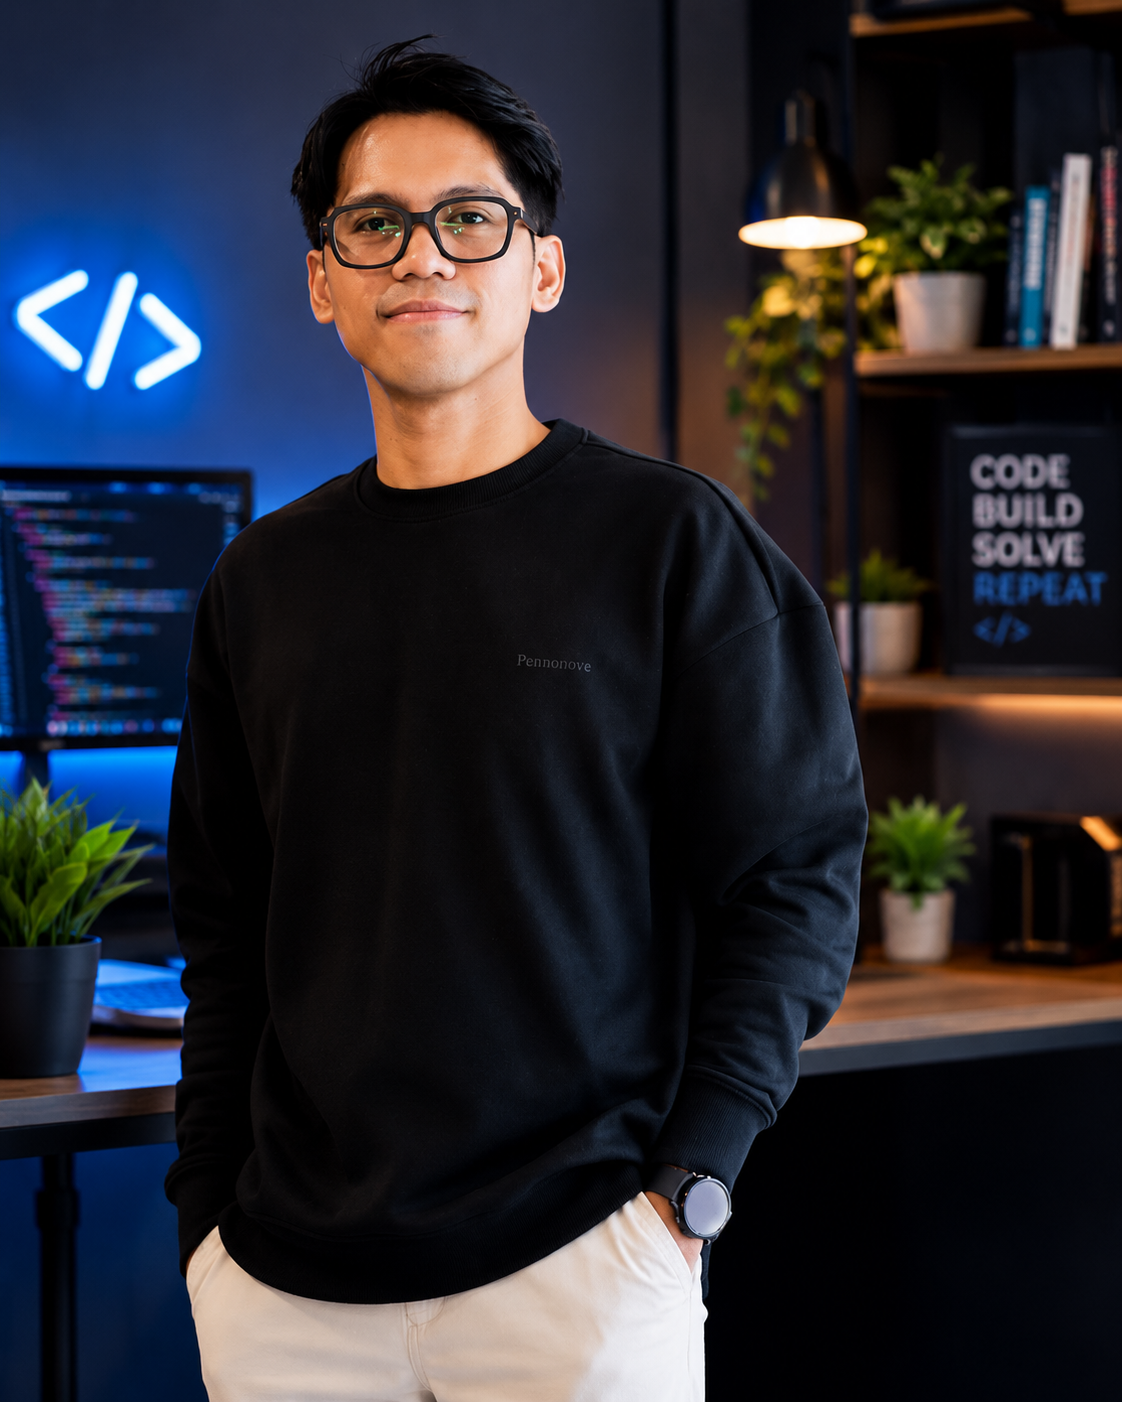
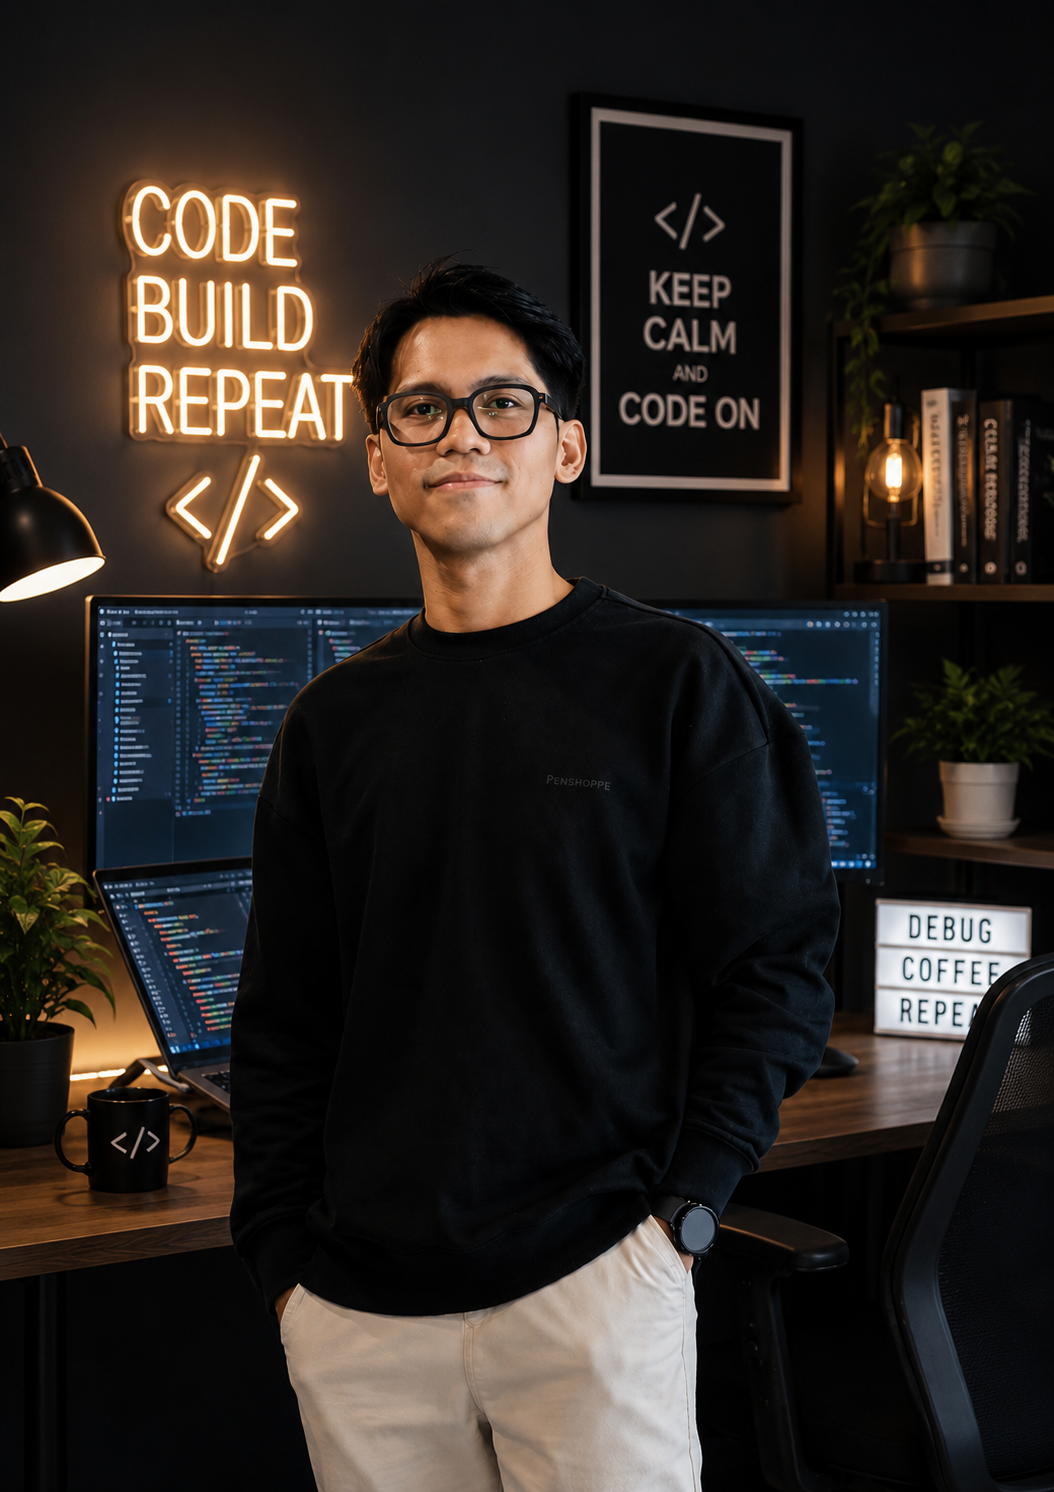
update profile and tiktok preview page

diff --git a/src/pages/Index.tsx b/src/pages/Index.tsx
@@ -752,6 +752,35 @@ const Index = () => {
           </div>
         </section>
 
+        {/* ═══ TIKTOK PREVIEW ═══ */}
+        <section className="py-4 md:py-6">
+          <div className="container px-6">
+            <div className="max-w-4xl mx-auto">
+              <motion.div initial={{ opacity: 0, y: 20 }} whileInView={{ opacity: 1, y: 0 }} viewport={{ once: true }} transition={{ duration: 0.5 }} className="section-card">
+                <div className="flex items-center justify-between mb-4">
+                  <h2 className="text-2xl font-bold">TikTok</h2>
+                  <Link to="/tiktok" className="text-sm font-medium text-muted-foreground hover:text-foreground transition-colors inline-flex items-center gap-1">View All &rsaquo;</Link>
+                </div>
+                <div className="flex flex-col items-center gap-4">
+                  <div className="rounded-2xl overflow-hidden border border-border w-full max-w-xs mx-auto">
+                    <iframe
+                      src="https://www.tiktok.com/embed/v2/7646806939032112405"
+                      className="w-full"
+                      style={{ height: "560px", border: "none" }}
+                      allowFullScreen
+                      allow="encrypted-media"
+                      title="TikTok preview"
+                    />
+                  </div>
+                  <Link to="/tiktok" className="inline-flex items-center gap-2 px-5 py-2 rounded-full border border-border text-sm font-medium hover:bg-secondary transition-colors">
+                    See all TikTok videos &rsaquo;
+                  </Link>
+                </div>
+              </motion.div>
+            </div>
+          </div>
+        </section>
+
         {/* ═══ GALLERY ═══ */}
         <section className="py-4 md:py-6">
           <div className="container px-6">

diff --git a/src/pages/TikTok.tsx b/src/pages/TikTok.tsx
@@ -1,0 +1,49 @@
+import { motion } from "framer-motion";
+import { Link } from "react-router-dom";
+import { ArrowLeft } from "lucide-react";
+
+const tiktokPosts = [
+  { id: "7646806939032112405", user: "gatuazon" },
+  // ponytail: add more { id, user } entries here as you post
+];
+
+const TikTokPage = () => {
+  return (
+    <div className="min-h-screen bg-background">
+      <div className="container px-6 py-8">
+        <div className="max-w-4xl mx-auto">
+          <div className="mb-6">
+            <Link to="/" className="inline-flex items-center gap-2 text-sm text-muted-foreground hover:text-foreground transition-colors mb-4">
+              <ArrowLeft className="w-4 h-4" />Back to Portfolio
+            </Link>
+            <h1 className="text-3xl font-bold">TikTok Content</h1>
+            <p className="text-muted-foreground mt-1">Behind the scenes, tech tips, and more.</p>
+          </div>
+
+          <div className="grid grid-cols-1 sm:grid-cols-2 lg:grid-cols-3 gap-6">
+            {tiktokPosts.map((post, i) => (
+              <motion.div
+                key={post.id}
+                initial={{ opacity: 0, y: 20 }}
+                animate={{ opacity: 1, y: 0 }}
+                transition={{ duration: 0.4, delay: i * 0.08 }}
+                className="rounded-2xl overflow-hidden border border-border"
+              >
+                <iframe
+                  src={`https://www.tiktok.com/embed/v2/${post.id}`}
+                  className="w-full"
+                  style={{ height: "560px", border: "none" }}
+                  allowFullScreen
+                  allow="encrypted-media"
+                  title={`TikTok post ${post.id}`}
+                />
+              </motion.div>
+            ))}
+          </div>
+        </div>
+      </div>
+    </div>
+  );
+};
+
+export default TikTokPage;

diff --git a/src/App.tsx b/src/App.tsx
@@ -10,6 +10,7 @@ import TechStack from "./pages/TechStack";
 import Community from "./pages/Community";
 import BlogPost from "./pages/BlogPost";
 import CV from "./pages/CV";
+import TikTok from "./pages/TikTok";
 import NotFound from "./pages/NotFound";
 import ChatWidget from "./components/ChatWidget";
 
@@ -29,6 +30,7 @@ const App = () => (
           <Route path="/tech-stack" element={<TechStack />} />
           <Route path="/community" element={<Community />} />
           <Route path="/cv" element={<CV />} />
+          <Route path="/tiktok" element={<TikTok />} />
           {/* ADD ALL CUSTOM ROUTES ABOVE THE CATCH-ALL "*" ROUTE */}
           <Route path="*" element={<NotFound />} />
         </Routes>
